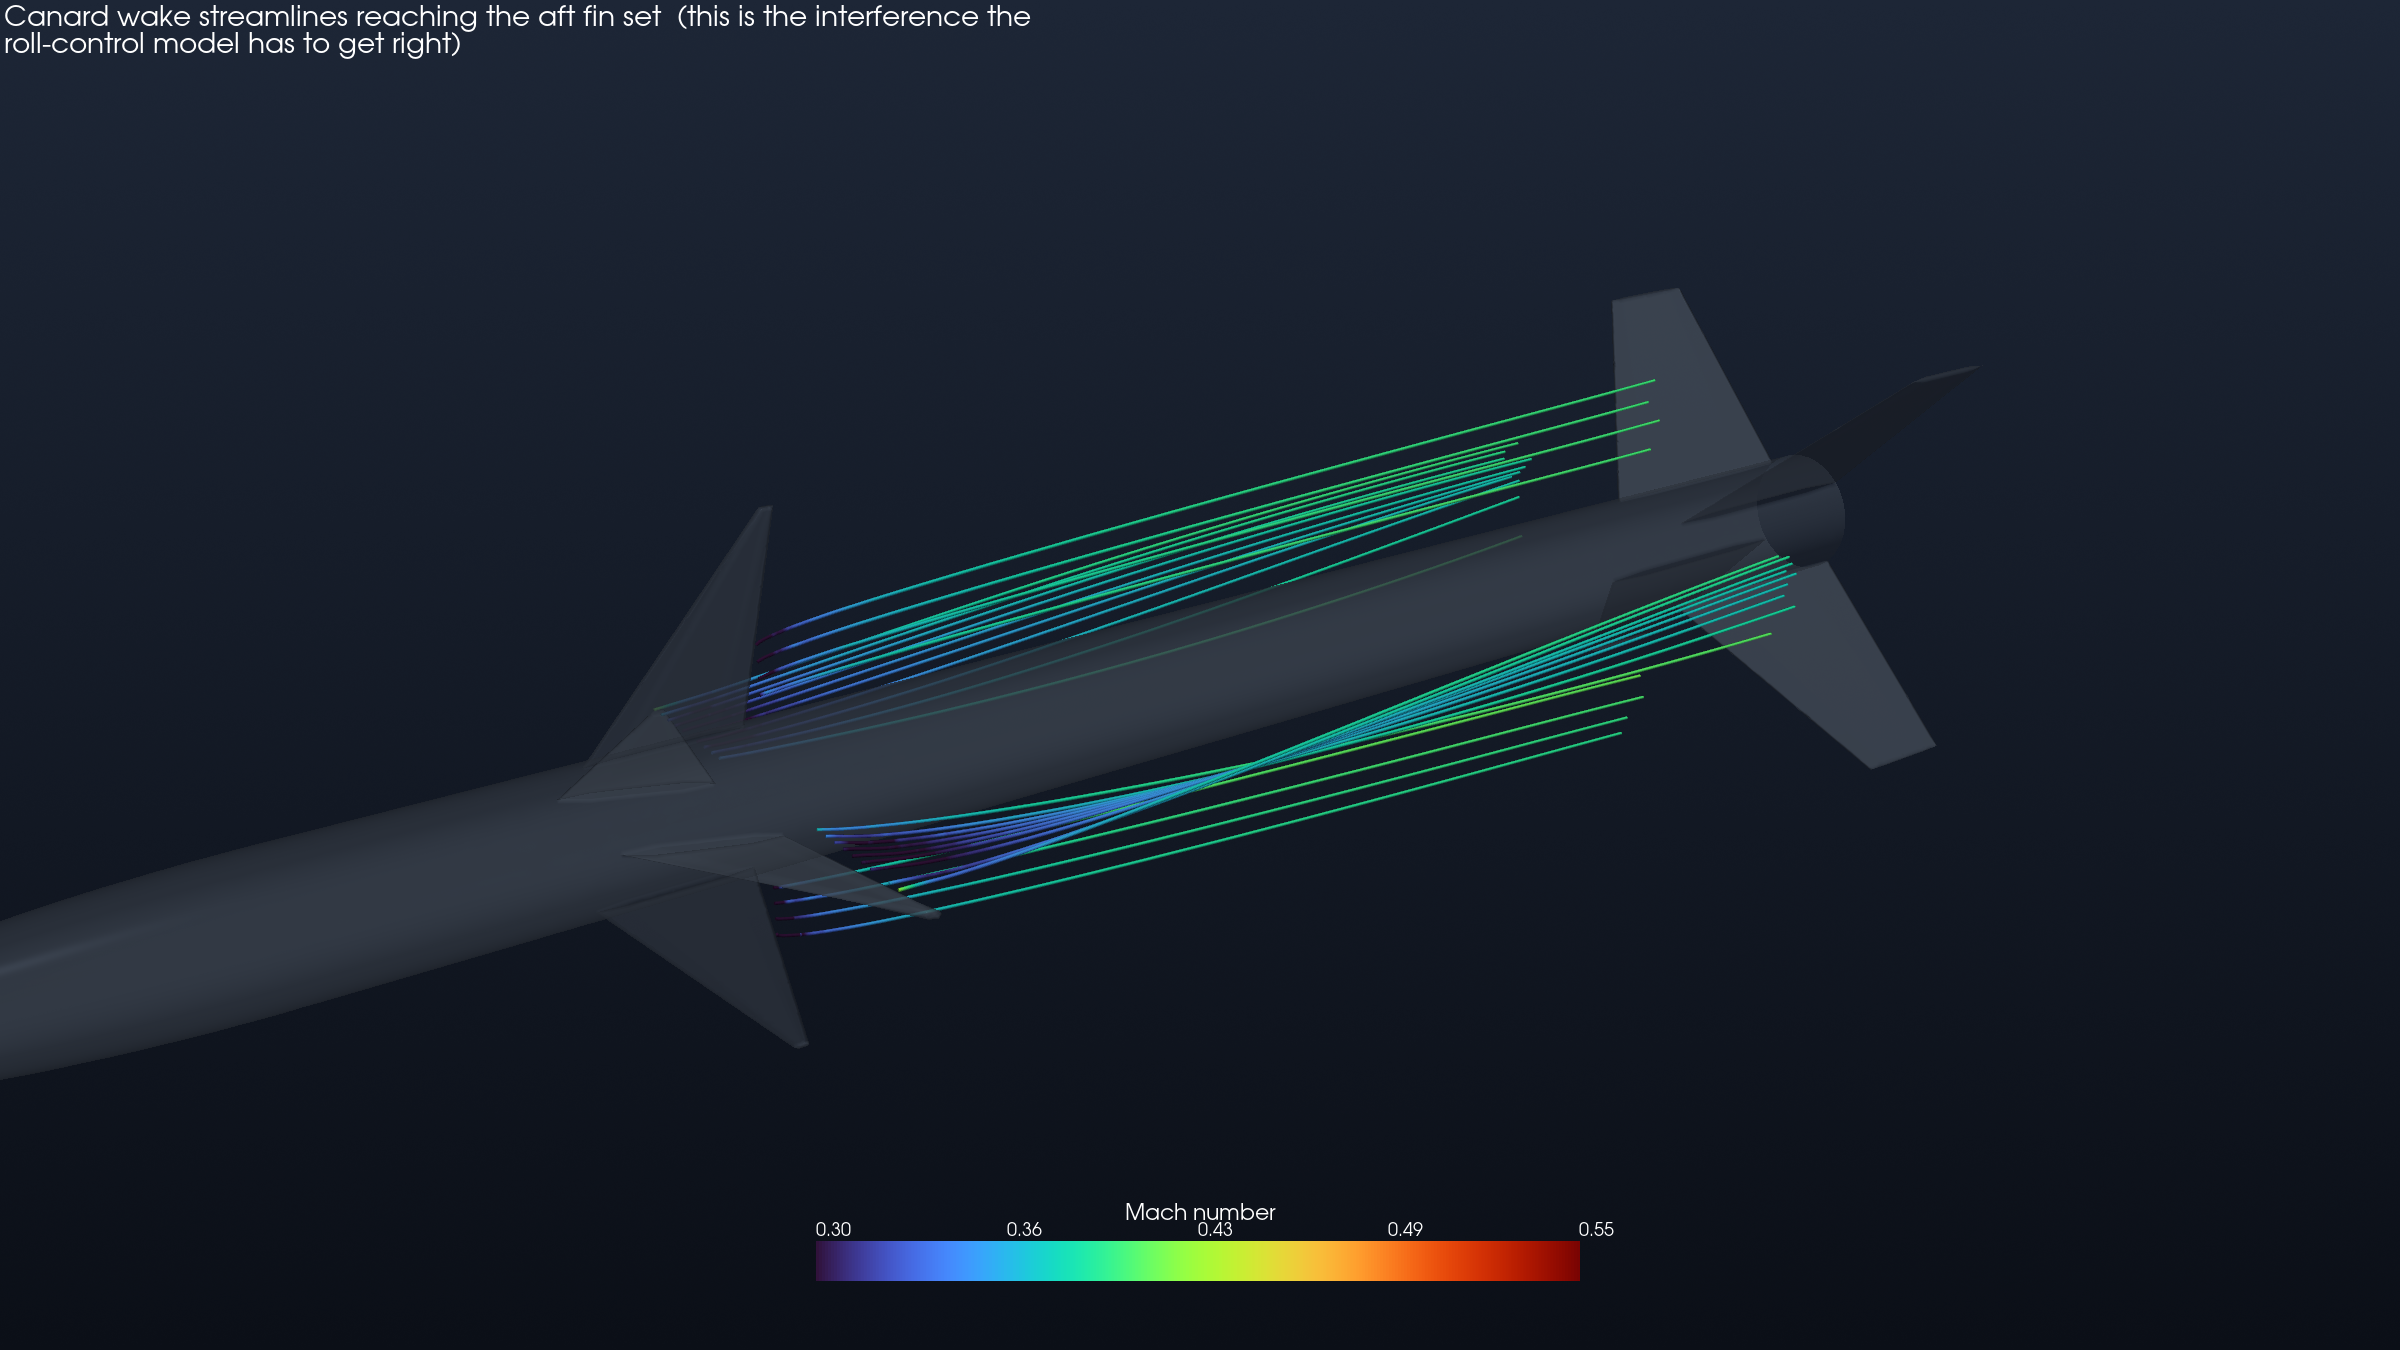
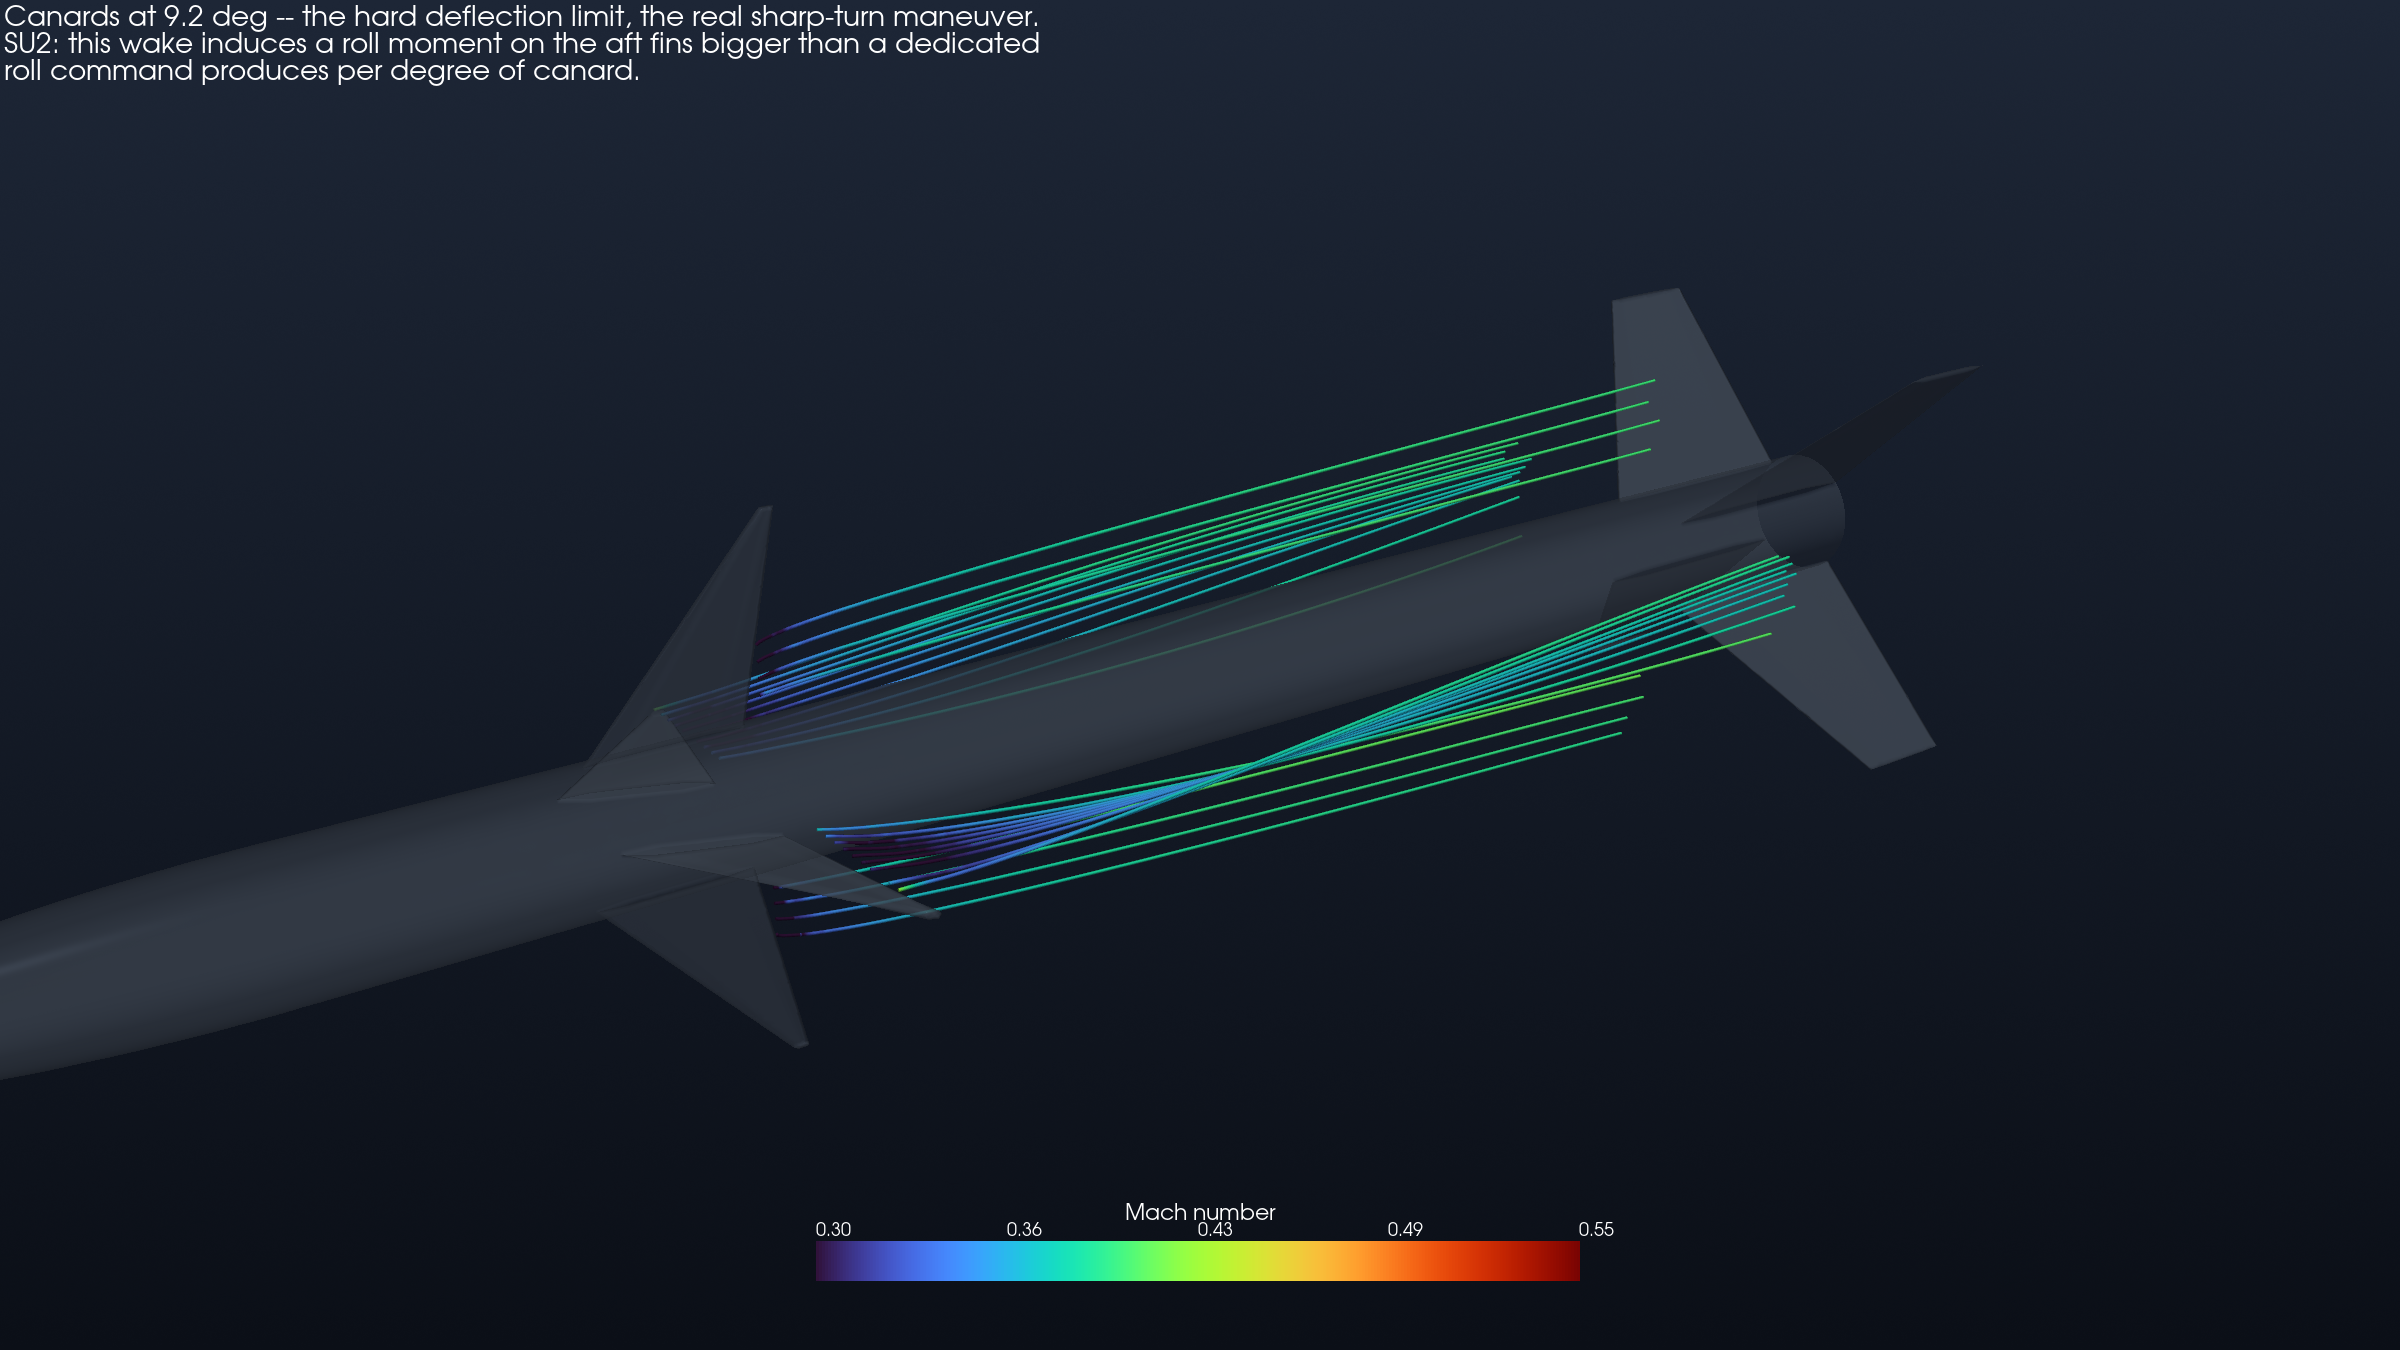
Surface the CFD-informed servo torque margin instead of hiding it
packaging.hinge_moment()'s cp_frac=0.25 default is demonstrably wrong (docs/15
A2: SU2 and VLM independently put the canard CP at 0.327-0.357 MAC). Adding
CP_FRAC_CFD_INFORMED=0.34 as a second, clearly-labeled number through
pitch_authority -> AuthorityResult.hinge_moment_per_panel_cfd, and printing it
next to the existing design-assumption margin in baseline.py and
flight_computer_report.py, so the tool stops reporting a clean "2.03x OK"
while the CFD-informed number is 0.73x FAIL.

This is diagnosis, not a hardware fix -- docs/15 C8 records the options and
that lowering DEFLECTION_LIMIT_DEG is deliberately off the table (turning
performance is the point of the project). No hardware direction chosen yet.

Also relabels the trim9 wake render (06) to state the 9.2 deg deflection
explicitly, since that's the vehicle's real hard limit, not an arbitrary
CFD case.

Changed region(s): [[0.0, 0.0, 0.4375, 0.0622]]

diff --git a/design/flight_computer.py b/design/flight_computer.py
@@ -310,6 +310,24 @@ def peak_hinge_moment(ev, elevation_deg: float = LAUNCH_ELEVATION_DEG) -> float:
         ev.rocket, probe, probe.mass, DEFLECTION_LIMIT_DEG).hinge_moment_per_panel)
 
 
+def peak_hinge_moment_cfd_informed(ev, elevation_deg: float = LAUNCH_ELEVATION_DEG) -> float:
+    """Same as `peak_hinge_moment`, at `packaging.CP_FRAC_CFD_INFORMED` instead of the 0.25
+    design assumption -- see the comment there. Not a replacement number, a second one to
+    look at alongside the first."""
+    from dataclasses import replace
+
+    from . import horizontal
+    from .configure import DEFLECTION_LIMIT_DEG
+
+    worst = max(ev.flight.points, key=lambda p: p.q)
+    hz = horizontal.fly(ev.rocket, ev.params.motor, ev.masses,
+                        elevation_deg=elevation_deg,
+                        deflection_deg=DEFLECTION_LIMIT_DEG, dt=0.01)
+    probe = replace(worst, q=max(hz.max_q, worst.q))
+    return abs(control.pitch_authority(
+        ev.rocket, probe, probe.mass, DEFLECTION_LIMIT_DEG).hinge_moment_per_panel_cfd)
+
+
 @dataclass
 class PowerBudget:
     logic_ma_3v3: float
@@ -332,6 +350,8 @@ class PowerBudget:
     flight_seconds: float
     continuous_duty_margin: float
     stall_torque_margin: float
+    hinge_moment_nm_cfd: float          # packaging.CP_FRAC_CFD_INFORMED -- see there
+    stall_torque_margin_cfd: float
 
 
 def power_budget(ev, servo_key: str = "kst_x08_plus") -> PowerBudget:
@@ -339,6 +359,7 @@ def power_budget(ev, servo_key: str = "kst_x08_plus") -> PowerBudget:
     servo = packaging.SERVOS[servo_key]
     n_servo = ev.rocket.canards.count
     hm = peak_hinge_moment(ev)
+    hm_cfd = peak_hinge_moment_cfd_informed(ev)
 
     logic_ma = sum(p.current_ma for p in (MCU, IMU, MAG, BARO, GNSS, FLASH))
     logic_w = logic_ma / 1000.0 * 3.3
@@ -377,6 +398,8 @@ def power_budget(ev, servo_key: str = "kst_x08_plus") -> PowerBudget:
         control_seconds=ctrl_s, flight_seconds=flight_s,
         continuous_duty_margin=SERVO_CONTINUOUS_KGFCM / max(hm * KGFCM_PER_NM, 1e-9),
         stall_torque_margin=packaging.torque_margin(hm, servo),
+        hinge_moment_nm_cfd=hm_cfd,
+        stall_torque_margin_cfd=packaging.torque_margin(hm_cfd, servo),
     )
 
 

diff --git a/scripts/baseline.py b/scripts/baseline.py
@@ -26,7 +26,8 @@ from design.configure import (
 )
 from design import recovery
 from design.packaging import (
-    SERVO_GEOMETRY, SERVOS, check_direct_drive, check_flat_mount, torque_margin,
+    CP_FRAC_CFD_INFORMED, SERVO_GEOMETRY, SERVOS, check_direct_drive, check_flat_mount,
+    torque_margin,
 )
 
 ROOT = Path(__file__).resolve().parents[1]
@@ -224,7 +225,15 @@ def main() -> None:
     print(f"  hinge balance       {balance}")
     print(f"  usable servo torque {servo.stall_torque * 0.4 * GEAR_RATIO:.4f} N m "
           f"(stall x 0.4 derate, gear {GEAR_RATIO:.1f}:1)")
-    print(f"  torque margin       {margin:.1f}x  {'OK' if margin > 2.0 else 'MARGINAL'}")
+    print(f"  torque margin       {margin:.1f}x  {'OK' if margin > 2.0 else 'MARGINAL'}"
+          f"  (design cp_frac=0.25)")
+    hm_cfd = worst.hinge_moment_per_panel_cfd
+    margin_cfd = torque_margin(hm_cfd, servo, GEAR_RATIO)
+    print(f"  torque margin       {margin_cfd:.2f}x  "
+          f"{'OK' if margin_cfd > 2.0 else 'MARGINAL' if margin_cfd > 1.0 else 'FAIL'}"
+          f"  CFD-INFORMED, interim (cp_frac={CP_FRAC_CFD_INFORMED}, docs/15 A2/B1 -- SU2 and")
+    print(f"                      VLM independently put the canard CP at 0.33-0.36 MAC, not "
+          f"0.25; NOT bench-verified, see docs/15 C1)")
 
     # The hinge is a MECHANISM, and the torque margin above is only its easiest question.
     # The same panel that makes 0.06 N m about the hinge makes 25 N at the bearing, and
@@ -647,6 +656,8 @@ def main() -> None:
     print(f"  SERVO DUTY          {fc_pwr.stall_torque_margin:.2f}x on stall torque but "
           f"{fc_pwr.continuous_duty_margin:.2f}x on the datasheet's CONTINUOUS band -- a margin "
           f"no torque check in this project could see")
+    print(f"  SERVO DUTY (CFD)    {fc_pwr.stall_torque_margin_cfd:.2f}x on stall torque, "
+          f"CFD-informed cp_frac={CP_FRAC_CFD_INFORMED} (interim, docs/15 A2/B1/C1)")
     print(f"  logging             {fc_log.bytes_per_s / 1000:.1f} kB/s, "
           f"{fc_log.total_bytes / 1e6:.2f} MB/flight against "
           f"{fc_log.onchip_usable_bytes / 1e6:.2f} MB on-chip -- "

diff --git a/design/packaging.py b/design/packaging.py
@@ -428,6 +428,21 @@ def hinge_moment(
     return normal_force * (cp_frac - hinge_frac) * mean_chord
 
 
+# CFD-informed correction, 2026-09-26 (docs/15-open-work.md A2/B1). Two independent methods
+# -- a resolution-converged VLM and SU2 Euler at alpha=3 deg, no deflection -- put the real
+# canard chordwise CP at 0.327-0.357 MAC, not the 0.25 hinge_moment() defaults to: a 10:1
+# taper, 42 deg swept delta carries its load further aft than thin-airfoil 0.25c does. The
+# deflected SU2 runs (pitch6, trim9) landed in the same range but are not converged enough
+# to pick a single number from (residual -4 to -5 against a -9.5 target, and trim9 shows a
+# spurious roll moment a symmetric pitch pair should not have at all).
+#
+# CP_FRAC_CFD_INFORMED is the midpoint of that range: an INTERIM, documented estimate, not a
+# replacement default. Compute hinge_moment(..., cp_frac=CP_FRAC_CFD_INFORMED) ALONGSIDE the
+# design-assumption call, never instead of it, until the servo bench test (docs/15 C1) or a
+# converged deflected CFD run gives a real number to freeze against.
+CP_FRAC_CFD_INFORMED = 0.34
+
+
 def torque_margin(required: float, servo: Servo, gear_ratio: float = 1.0, derate: float = 0.4) -> float:
     """Ratio of available to required torque.
 

diff --git a/scripts/flight_computer_report.py b/scripts/flight_computer_report.py
@@ -17,7 +17,7 @@ from pathlib import Path
 
 sys.path.insert(0, str(Path(__file__).resolve().parents[1]))
 
-from design import estimation as est, flight_computer as fc
+from design import estimation as est, flight_computer as fc, packaging
 from design.configure import DEFLECTION_LIMIT_DEG, ROLL_COMMAND_CAP_DEG, baseline, evaluate
 
 MM = 1000.0
@@ -128,7 +128,11 @@ def main() -> None:
         f"{fc.BATTERY_USABLE_FRACTION:.0%} depth")
     say(f"  MARGIN                  {p.margin:7.1f}x")
     say()
-    say(f"  servo torque margin     {p.stall_torque_margin:7.2f}x on STALL torque")
+    say(f"  servo torque margin     {p.stall_torque_margin:7.2f}x on STALL torque "
+        f"(design cp_frac=0.25)")
+    say(f"  servo torque margin     {p.stall_torque_margin_cfd:7.2f}x on STALL torque -- "
+        f"CFD-INFORMED, interim (cp_frac={packaging.CP_FRAC_CFD_INFORMED}, docs/15 A2/B1;")
+    say(f"                          not a bench-verified number -- see docs/15 C1)")
     say(f"  servo duty margin       {p.continuous_duty_margin:7.2f}x on the datasheet's own "
         f"CONTINUOUS band ({fc.SERVO_CONTINUOUS_KGFCM:.1f} kgf.cm)")
     say(f"  peak pack current       {p.peak_pack_a:7.2f} A -- what sizes the C-rating, the "

diff --git a/design/control.py b/design/control.py
@@ -392,6 +392,7 @@ class AuthorityResult:
     static_margin_cal: float
     pitch_natural_freq_hz: float
     hinge_moment_per_panel: float  # signed: + restoring, - divergent (see packaging.hinge_moment)
+    hinge_moment_per_panel_cfd: float  # same, at packaging.CP_FRAC_CFD_INFORMED -- see there
 
 
 def pitch_authority(
@@ -428,15 +429,17 @@ def pitch_authority(
         max(-cm_alpha, 1e-9) * point.q * rocket.reference_area * d / inertia.pitch
     )
 
-    from .packaging import hinge_moment
+    from .packaging import CP_FRAC_CFD_INFORMED, hinge_moment
 
-    hm = hinge_moment(
+    hm_args = (
         point.q,
         rocket.canards.planform_area_single,
         rocket.canards.mean_chord,
         panel_cna * rocket.reference_area / rocket.canards.planform_area_single,
         local_alpha,
     )
+    hm = hinge_moment(*hm_args)
+    hm_cfd = hinge_moment(*hm_args, cp_frac=CP_FRAC_CFD_INFORMED)
 
     return AuthorityResult(
         deflection_deg=deflection_deg,
@@ -450,6 +453,7 @@ def pitch_authority(
         static_margin_cal=stab.static_margin_cal,
         pitch_natural_freq_hz=omega_n / (2.0 * math.pi),
         hinge_moment_per_panel=hm,
+        hinge_moment_per_panel_cfd=hm_cfd,
     )
 
 

diff --git a/docs/15-open-work.md b/docs/15-open-work.md
@@ -227,6 +227,37 @@ ATT_KD 0.35` were only ever run against a slew-only actuator — the same blind 
 the roll instability. The pitch plant is slower (3.6 Hz, ζ 0.079), so it is likely less
 severe, but no one has checked. Do the roll_bandwidth.py analysis for pitch.
 
+**C8. DONE 2026-09-26 (diagnosis only, not a hardware fix): the servo torque margin risk is
+now visible in the standard reports, not just in this doc.** `packaging.CP_FRAC_CFD_INFORMED
+= 0.34` (midpoint of the SU2/VLM 0.327-0.357 MAC range) flows through `control.pitch_authority`
+as `hinge_moment_per_panel_cfd`, and `baseline.py` / `flight_computer_report.py` now print it
+next to the design-assumption margin instead of only reporting the optimistic one:
+
+```
+torque margin   2.03x  OK        (design cp_frac=0.25)
+torque margin   0.73x  FAIL      CFD-informed, interim (cp_frac=0.34)
+```
+
+**Decision, 2026-09-26: lowering `DEFLECTION_LIMIT_DEG` is OFF THE TABLE as a fix.** Ben's
+call — the vehicle's turning performance is the point of the project (see
+`vehicle-goal-aggressive-manoeuvre` memory), and trading it away to paper over an unverified
+CFD number is backwards. That leaves, in order of how much else they disturb:
+
+1. **Gear the servo.** ~2.7:1 restores nominal 2.0x at the interim 0.73x number. Naive slew
+   (667/2.7 ≈ 243 deg/s) still clears the roll bandwidth requirement in `roll_bandwidth.py`
+   section 4 on paper — but a real gear stage adds backlash/compliance that could eat into
+   the 30 ms `SERVO_LAG_S` assumption those gains are built on. Needs bench verification of
+   the GEARED assembly, not just the bare servo.
+2. **A bigger real servo.** Checked the catalog — nothing exists. The only other datasheet
+   part, MKS HV6100, is *weaker* than the KST X08 Plus, not stronger.
+3. **Move the hinge aft toward the real CP.** Bay rebuild (C3) — shaft, bearings, all four
+   servo mounts are dimensioned off the current 0.20c station.
+4. **Do nothing yet.** The servo bench test (C1) measures the real torque and lag directly;
+   the 0.4 stall derate in `torque_margin()` is itself an assumption ("measure your actual
+   part"), so 0.73x could be pessimistic as well as the CP location being pessimistic.
+
+No hardware direction has been chosen yet. All four preserve `DEFLECTION_LIMIT_DEG`.
+
 ---
 
 ## D. Notes for whoever picks this up
